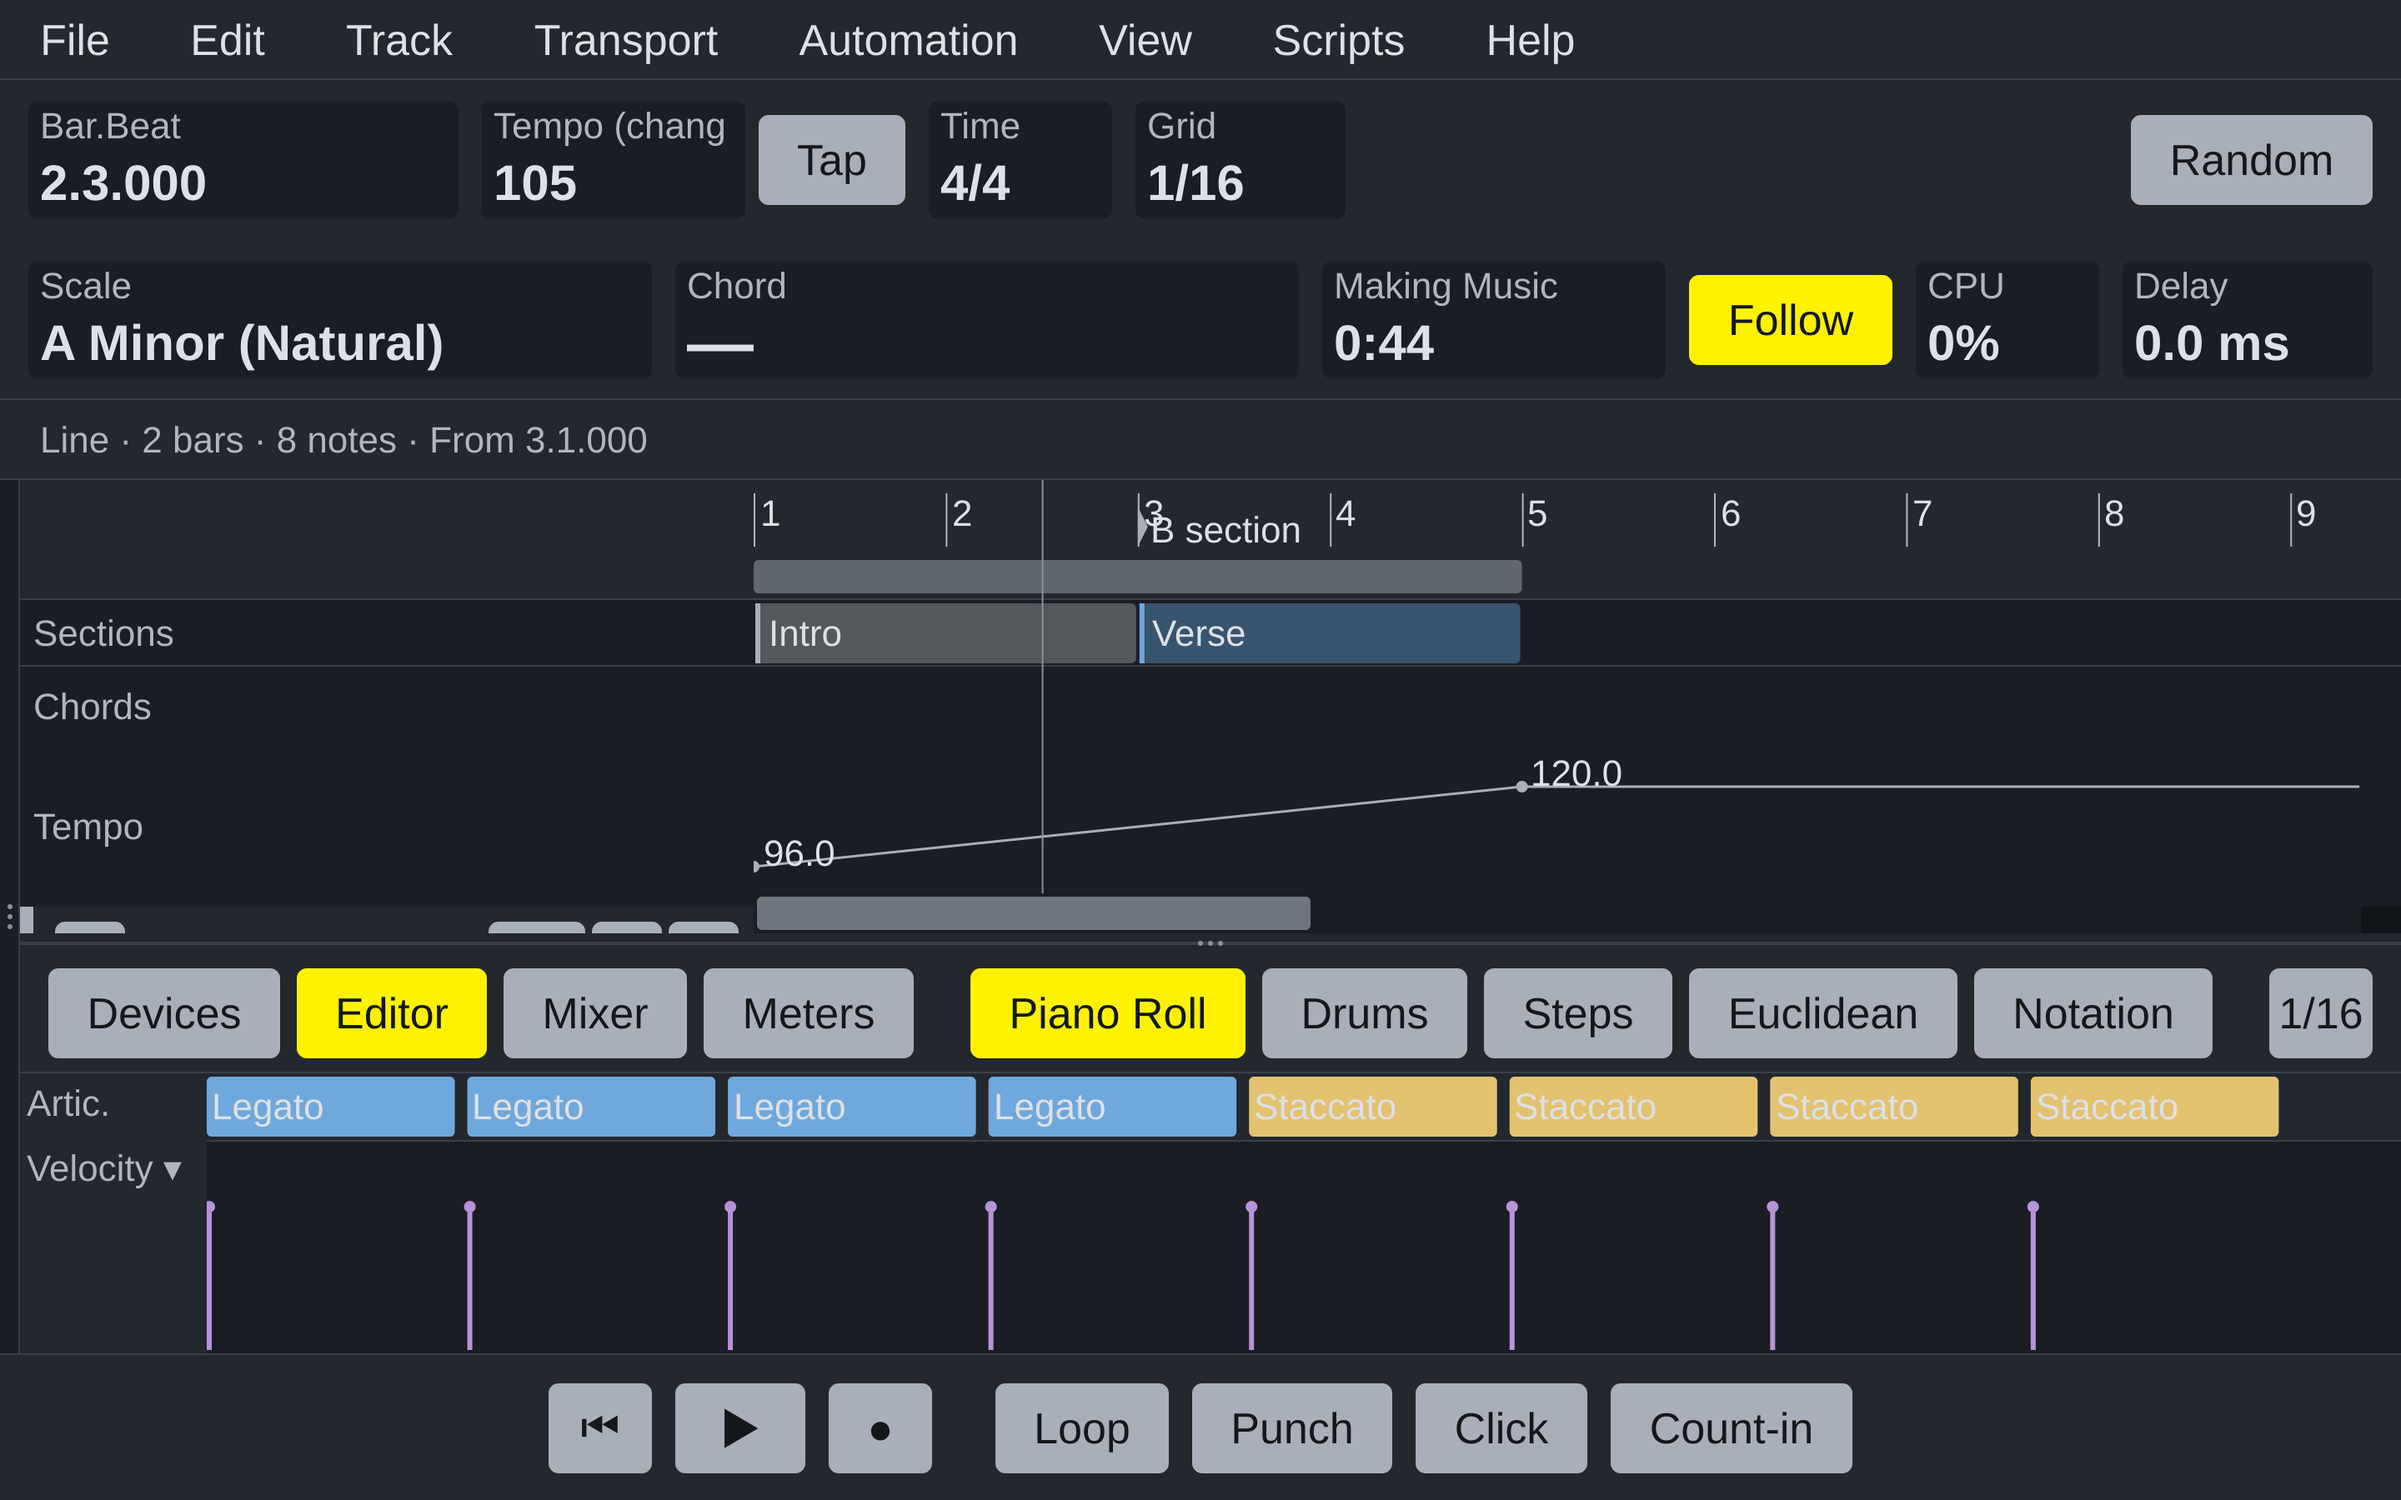
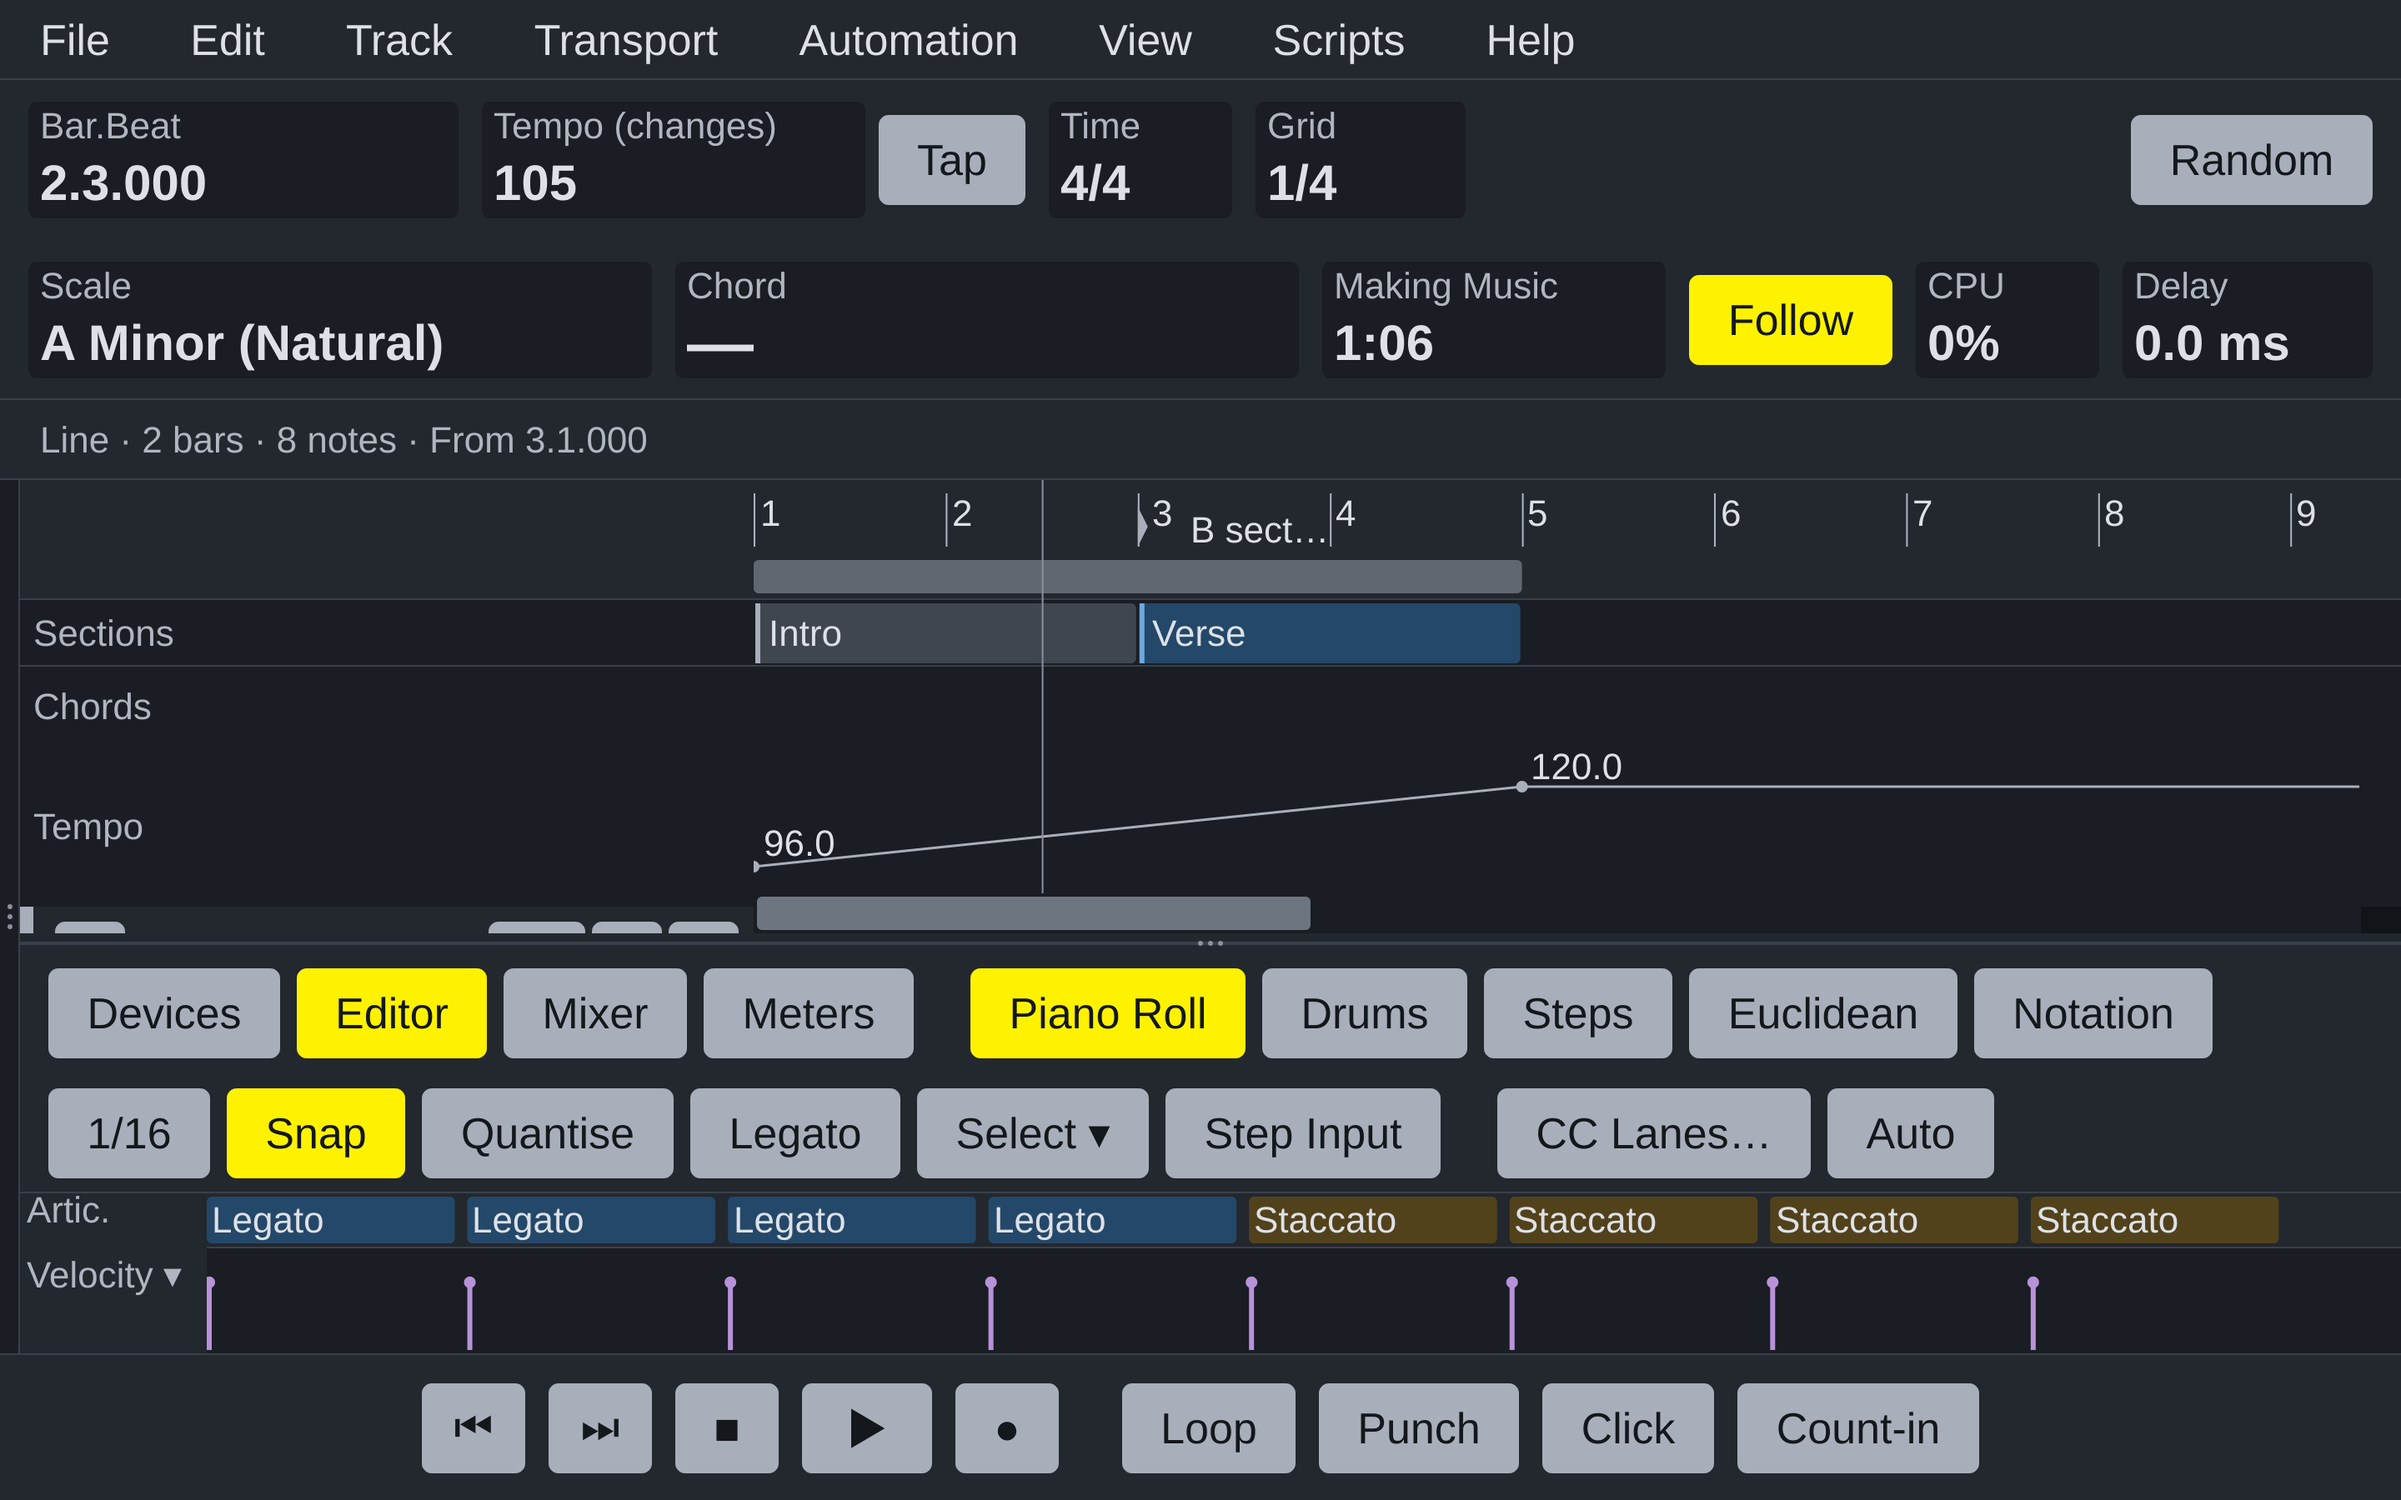
View > Text Size: 50%, 75%, 90% and 110% too; ⌘= and ⌘- step through them; track names and the tempo lane still read at 50%
Claude-Session: https://claude.ai/code/session_01RvNnZjPxPYn8JczTsByi7t

diff --git a/Tests/App/TestWindow.cpp b/Tests/App/TestWindow.cpp
@@ -775,3 +775,68 @@ TEST ("window: Space plays even when a button holds the keyboard focus, as one d
     }
     LookAndFeel::setDefaultLookAndFeel (nullptr);
 }
+
+TEST ("window: View > Text Size offers 50%, 75%, 90%, 100%, 110%, 125%, 150% and 200%; each is used, laid out with nothing off the edge; Bigger and Smaller step through them (the musician's ask)")
+{
+    theme::LookAndFeel look;
+    LookAndFeel::setDefaultLookAndFeel (&look);
+    {
+        PluginManager plugins;
+        Engine engine (plugins);
+        Controller c (engine);
+        c.project = demo::song();
+        c.refresh();
+        MainComponent w (c);
+        // The View menu's Text Size lists them in order.
+        const auto names = w.getMenuBarNames();
+        StringArray sizes;
+        for (int i = 0; i < names.size(); ++i)
+            if (names[i] == "View")
+            {
+                const auto view = w.getMenuForIndex (i, names[i]);   // kept: the iterator holds on to it
+                for (PopupMenu::MenuItemIterator it (view); it.next();)
+                    if (it.getItem().text == "Text Size" && it.getItem().subMenu)
+                        for (PopupMenu::MenuItemIterator s (*it.getItem().subMenu); s.next();) sizes.add (s.getItem().text);
+            }
+        CHECK_EQ (sizes.joinIntoString (" "), String ("50% 75% 90% 100% 110% 125% 150% 200%"));
+
+        for (float scale : { 0.5f, 0.75f, 0.9f, 1.1f })
+            for (auto size : { Rectangle<int> (900, 560), Rectangle<int> (1440, 900) })
+            {
+                w.setTextSize (scale);
+                CHECK (std::abs (theme::scale() - scale) < 0.001f);
+                w.setBounds (size);
+                std::function<void (Component&)> walk = [&] (Component& comp)
+                {
+                    for (auto* child : comp.getChildren())
+                    {
+                        if (! child->isVisible()) continue;
+                        if (dynamic_cast<Button*> (child) != nullptr)
+                        {
+                            const auto b = child->getBounds();
+                            if (b.getRight() > comp.getWidth() + 1)
+                                std::printf ("  off the edge: %s in %s at %dx%d, %.0f%%\n", child->getTitle().toRawUTF8(),
+                                             comp.getTitle().toRawUTF8(), size.getWidth(), size.getHeight(), scale * 100);
+                            CHECK (b.getRight() <= comp.getWidth() + 1);
+                            CHECK (b.getHeight() >= roundToInt (18 * scale));
+                        }
+                        if (dynamic_cast<Viewport*> (child) == nullptr) walk (*child);
+                    }
+                };
+                walk (w);
+            }
+        // Bigger and Smaller (Command-= and Command--) go to the next size along.
+        auto press = [&c] (const String& id) { for (auto& k : c.keys.all()) if (k.id == id && k.run) k.run(); };
+        w.setTextSize (1.0f);
+        press ("bigger");
+        CHECK (std::abs (theme::scale() - 1.1f) < 0.001f);
+        press ("smaller");
+        press ("smaller");
+        CHECK (std::abs (theme::scale() - 0.9f) < 0.001f);
+        w.setTextSize (0.5f);
+        press ("smaller");
+        CHECK (std::abs (theme::scale() - 0.5f) < 0.001f);   // the smallest stays
+        w.setTextSize (1.0f);
+    }
+    LookAndFeel::setDefaultLookAndFeel (nullptr);
+}

diff --git a/Source/App/MainComponent.cpp b/Source/App/MainComponent.cpp
@@ -519,8 +519,17 @@ void MainComponent::registerKeys()
     keys.add ("browser", "Show or Hide the Browser", K ('b', cmd, 0), [this] { browserShown = ! browserShown; browser.setVisible (browserShown); resized(); });
     keys.add ("capture", "Capture MIDI", K ('r', cmd | shift, 0), [this] { c.captureMidi(); });
     keys.add ("learn", "MIDI Learn", K ('l', cmd, 0), [this] { c.learnLastTouched(); });
-    keys.add ("bigger", "Bigger Text", K ('=', cmd, 0), [this] { setTextSize (jmin (2.0f, theme::scale() + 0.25f)); });
-    keys.add ("smaller", "Smaller Text", K ('-', cmd, 0), [this] { setTextSize (jmax (1.0f, theme::scale() - 0.25f)); });
+    // The next of View > Text Size's choices along, either way.
+    auto nextSize = [] (int way)
+    {
+        const auto& sizes = theme::textSizes();
+        const int now = roundToInt (theme::scale() * 100.0f);
+        if (way > 0) { for (int s : sizes) if (s > now) return (float) s / 100.0f; }
+        else for (auto it = sizes.rbegin(); it != sizes.rend(); ++it) if (*it < now) return (float) *it / 100.0f;
+        return theme::scale();
+    };
+    keys.add ("bigger", "Bigger Text", K ('=', cmd, 0), [this, nextSize] { setTextSize (nextSize (1)); });
+    keys.add ("smaller", "Smaller Text", K ('-', cmd, 0), [this, nextSize] { setTextSize (nextSize (-1)); });
     keys.add ("actualSize", "Text at 100%", K ('0', cmd, 0), [this] { setTextSize (1.0f); });
     keys.add ("import", "Import Audio or MIDI", K ('i', cmd, 0), [this] { importFiles(); });
     keys.add ("exportMix", "Export the Mix", K ('e', cmd | shift, 0), [this] { exportAudio (false); });

diff --git a/Source/App/Arrange.cpp b/Source/App/Arrange.cpp
@@ -893,7 +893,10 @@ void Arrange::drawTempoLane (Graphics& g, Rectangle<int> r)
         const float x = xOf (tp.tick);
         g.fillEllipse (x - 3.5f, yOf (tp.bpm) - 3.5f, 7.0f, 7.0f);
         g.setColour (theme::text);
-        g.drawText (String (tp.bpm, 1), (int) x + 6, (int) yOf (tp.bpm) - 14, 60, 12, Justification::centredLeft, false);
+        // Kept inside the lane: at small text sizes the top value was cut off.
+        g.setFont (theme::font (theme::smallPoints));
+        const int labelH = theme::px (12);
+        g.drawText (String (tp.bpm, 1), (int) x + 6, jmax (r.getY(), (int) yOf (tp.bpm) - labelH - 2), 60, labelH, Justification::centredLeft, false);
         g.setColour (theme::control);
     }
     g.restoreState();

diff --git a/Source/App/Menus.cpp b/Source/App/Menus.cpp
@@ -507,7 +507,7 @@ PopupMenu MainComponent::getMenuForIndex (int index, const String&)
             if (remove.getNumItems() > 0) spaces.addSubMenu ("Delete a Workspace", remove);
             m.addSubMenu ("Workspaces", spaces);
             PopupMenu sizes;
-            for (int s : { 100, 125, 150, 200 })
+            for (int s : theme::textSizes())
                 sizes.addItem (item (String (s) + "%", [this, s] { setTextSize ((float) s / 100.0f); }, s == 100 ? k ("actualSize") : String(), true, roundToInt (theme::scale() * 100) == s));
             m.addSubMenu ("Text Size", sizes);
             // Themes (0132): the window's colours, every one of them.

diff --git a/tools/RenderWindow.cpp b/tools/RenderWindow.cpp
@@ -973,6 +973,11 @@ int main (int argc, char** argv)
         c.selectClip (c.project.tracks[5].clips().front().id);
         c.refresh();
         shoot ("8-text-200");
+        // The smaller sizes too (the musician's ask): more of the song in the window.
+        window.setTextSize (0.75f);
+        shoot ("8-text-75");
+        window.setTextSize (0.5f);
+        shoot ("8-text-50");
         window.setTextSize (1.0f);   // and not left at 200% for the app's next run
         // The Random button's song (decision 0101), from Kalibre's own instruments.
         c.randomSong ({}, 4242);

diff --git a/Source/App/Arrange.h b/Source/App/Arrange.h
@@ -108,7 +108,8 @@ public:
 
     Timeline timeline;
     float xOfTick (Tick t) const { return xOf (t); }   // where a moment is, across the arrangement
-    int headerWidth() const { return theme::px (220); }
+    // The track headers: at small text sizes no narrower than 150 points, so names still fit beside the buttons.
+    int headerWidth() const { return juce::jmax (150, theme::px (220)); }
     int rulerHeight() const;
     int sectionLaneHeight() const;
     void drawSectionLane (juce::Graphics&, juce::Rectangle<int>);

diff --git a/Source/App/Theme.h b/Source/App/Theme.h
@@ -137,6 +137,8 @@ double luminance (Colour);
 double contrast (Colour, Colour);
 
 float scale();                 // the Text Size, 1.0 = 100%
+// View > Text Size's choices, in percent, smallest first (50% to 200%).
+inline const std::vector<int>& textSizes() { static const std::vector<int> s { 50, 75, 90, 100, 110, 125, 150, 200 }; return s; }
 void setScale (float);
 inline int px (int points) { return juce::roundToInt ((float) points * scale()); }
 

diff --git a/Source/App/Theme.cpp b/Source/App/Theme.cpp
@@ -180,7 +180,7 @@ void usePalette (int index)
             comp->repaint();
         }
 }
-void setScale (float s) { textScale = jlimit (1.0f, 2.0f, s); }
+void setScale (float s) { textScale = jlimit (textSizes().front() / 100.0f, textSizes().back() / 100.0f, s); }
 
 double luminance (Colour c)
 {

diff --git a/docs/FEATURES.md b/docs/FEATURES.md
@@ -129,5 +129,5 @@ Every feature asked for, then the list of basic DAW features
 | 12. Export | Yes | A 16- or 24-bit or MP3 export that clips says so, and by how much (0133). Record the Tail (rings on until silent, nothing new played) and Export the Second Pass (the range played once unheard, the next pass exported) asked before each export, and in Export Several at Once; every export starts clean, nothing carried over from the last; tested (0097). The whole song ends at the bar after the last clip (0109). DAWproject (0077).  Mix and tracks as WAV, AIFF, FLAC or MP3 (320 kb/s), 16/24/32-bit, dither, normalise, loudness targets, MIDI. Song Details written into WAV and MP3; Export Several at Once (0041); tested. FLAC and AIFF carry no tags |
 | 13. Sync and control | Yes | MIDI clock in and out, Song Position, MTC out and chased in, MMC out and in, Ableton Link, Mackie Control, HUI, OSC, the Mac's network MIDI, in the Studio window (File > Studio, 0110; 0034, 0035, 0043). Not yet tried with real gear |
 | 14. Metering | Yes | Peak and RMS meters, loudness, true peak and correlation (0033); spectrum, oscilloscope, phase scope and tuner in the Meters tab (0044) |
-| 15. Workflow | Yes | Keys for everything, every one changeable (Help > Keys…, a window of its own, 0110), workspaces (View > Workspaces) (0045), undo history, context menus, drag and drop, Text Size |
+| 15. Workflow | Yes | Keys for everything, every one changeable (Help > Keys…, a window of its own, 0110), workspaces (View > Workspaces) (0045), undo history, context menus, drag and drop, Text Size from 50% to 200% (50, 75, 90, 100, 110, 125, 150, 200), ⌘= and ⌘- stepping through them; tested |
 | 16. Collaboration | Partly | Audio and MIDI import/export, MusicXML in and out (0057), DAWproject in and out (0077), stems, Final Cut XML out and in, archives (0041). AAF and OMF aren't written: they need the AAF SDK's binary container; XML carries the clips to Resolve, Premiere and Logic |

diff --git a/docs/USER-GUIDE.md b/docs/USER-GUIDE.md
@@ -131,10 +131,14 @@ their buttons, clips, notes and the Plug-in Manager's list:
 
 ### Text size
 
-**View > Text Size** (100%, 125%, 150%, 200%), or ⌘= bigger, ⌘- smaller,
-⌘0 back to 100%. Everything grows with it.
+**View > Text Size**: 50%, 75%, 90%, 100%, 110%, 125%, 150% or 200%. ⌘=
+goes to the next size bigger, ⌘- the next smaller, ⌘0 back to 100%.
+Everything grows or shrinks with it: below 100% more of the song fits in the
+window. The track names keep room enough to read, however small.
 
 ![The window at 200% text, with the tempo lane shown](guide/text-200.png)
+![The window at 75% text](guide/text-75.png)
+![The window at 50% text: more of the song in the window](guide/text-50.png)
 
 ### Themes
 
@@ -1765,7 +1769,7 @@ Every tool an agent is given, and what it does: [AGENTS.md](AGENTS.md).
 | Follow Playback | |
 | Zoom to Fit | F |
 | Workspaces ▸ | |
-| Text Size ▸ | ⌘0 for 100% |
+| Text Size ▸ (50% to 200%) | ⌘0 for 100%, ⌘= bigger, ⌘- smaller |
 | Themes ▸ | |
 
 ### Scripts

diff --git a/docs/sessions/2026-11-23.md b/docs/sessions/2026-11-23.md
@@ -133,3 +133,12 @@ option to turn it off. Built: "<Song> Activity Log.txt", every undo step
 (an AI agent's marked apart), Undo, Redo, play, stop, record, open, save and
 the message line, each with its date and time; only ever added to; Save As
 takes it along; File > Keep an Activity Log. Tests first (4 core, 4 app).
+
+## 25 November: smaller text sizes
+
+Asked: View > Text Size gets 110%, 90%, 75% and 50%. The sizes are one list
+(`theme::textSizes`: 50 to 200); ⌘= and ⌘- step through it. At 50% the track
+headers keep at least 150 points, so a name in a folder isn't cut to "D…",
+and the tempo lane's top value stays inside it. Renders at 75% and 50% in the
+guide. Tested first: the menu's sizes, each laid out with nothing off the
+edge, and the keys' steps.
